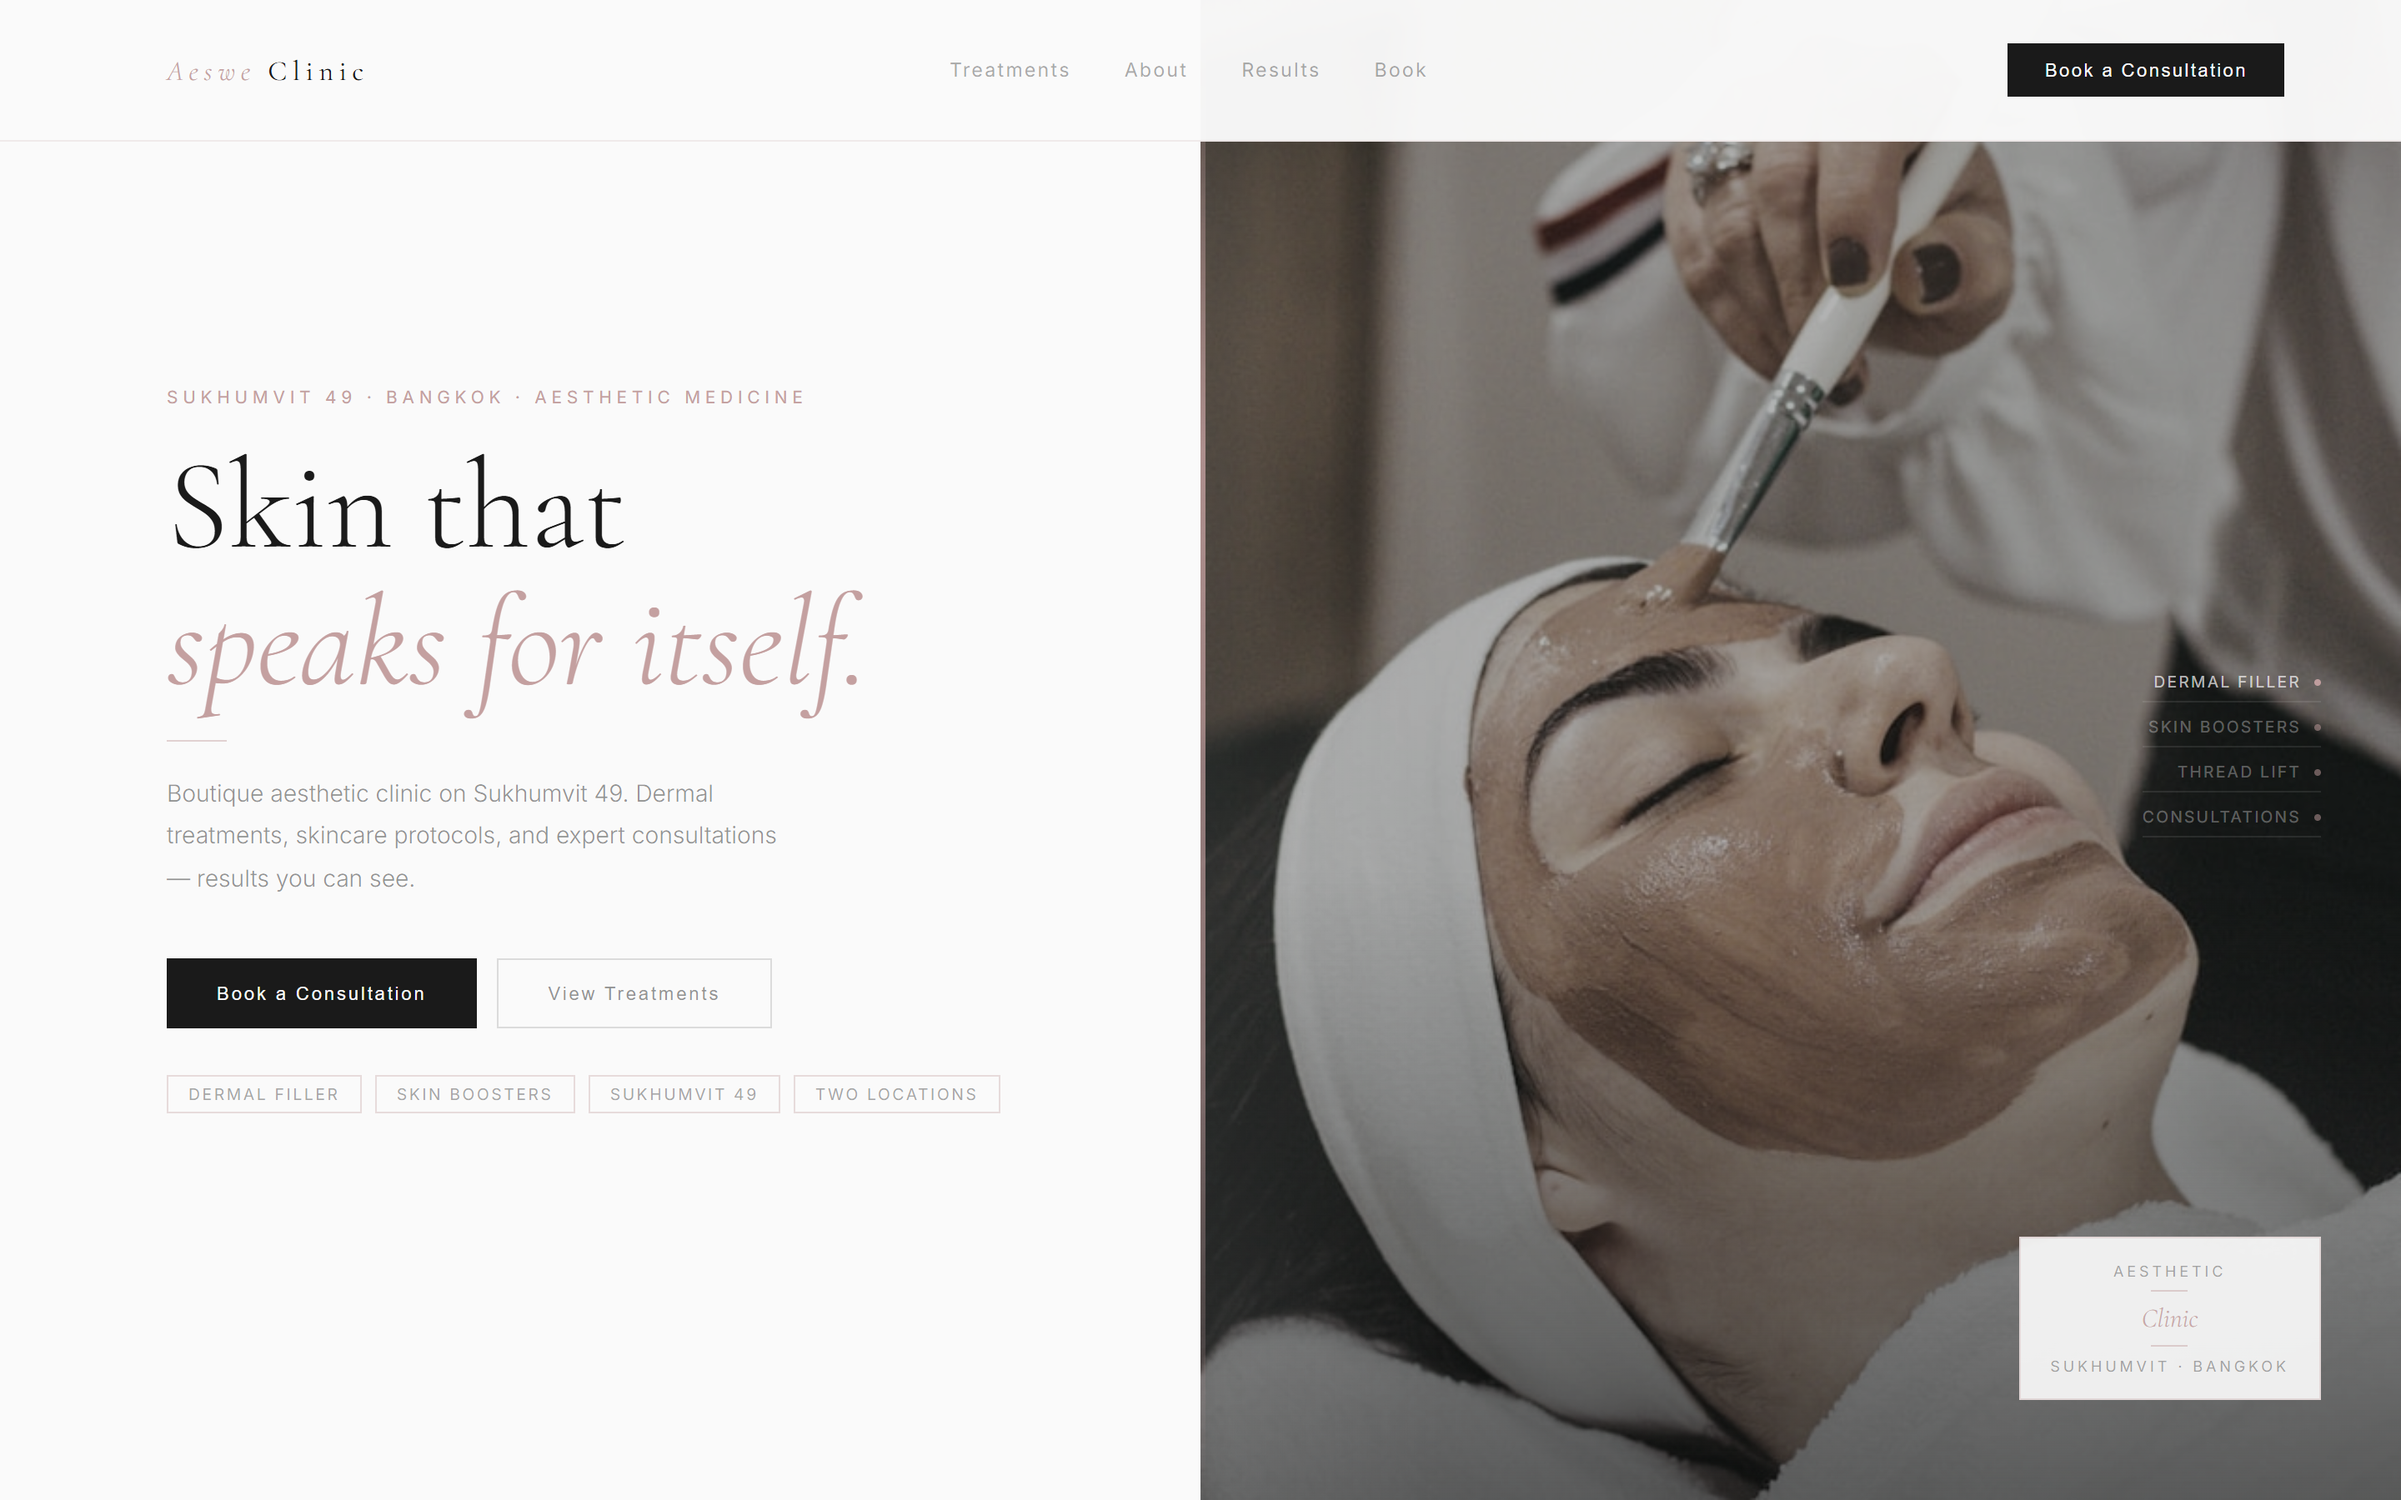
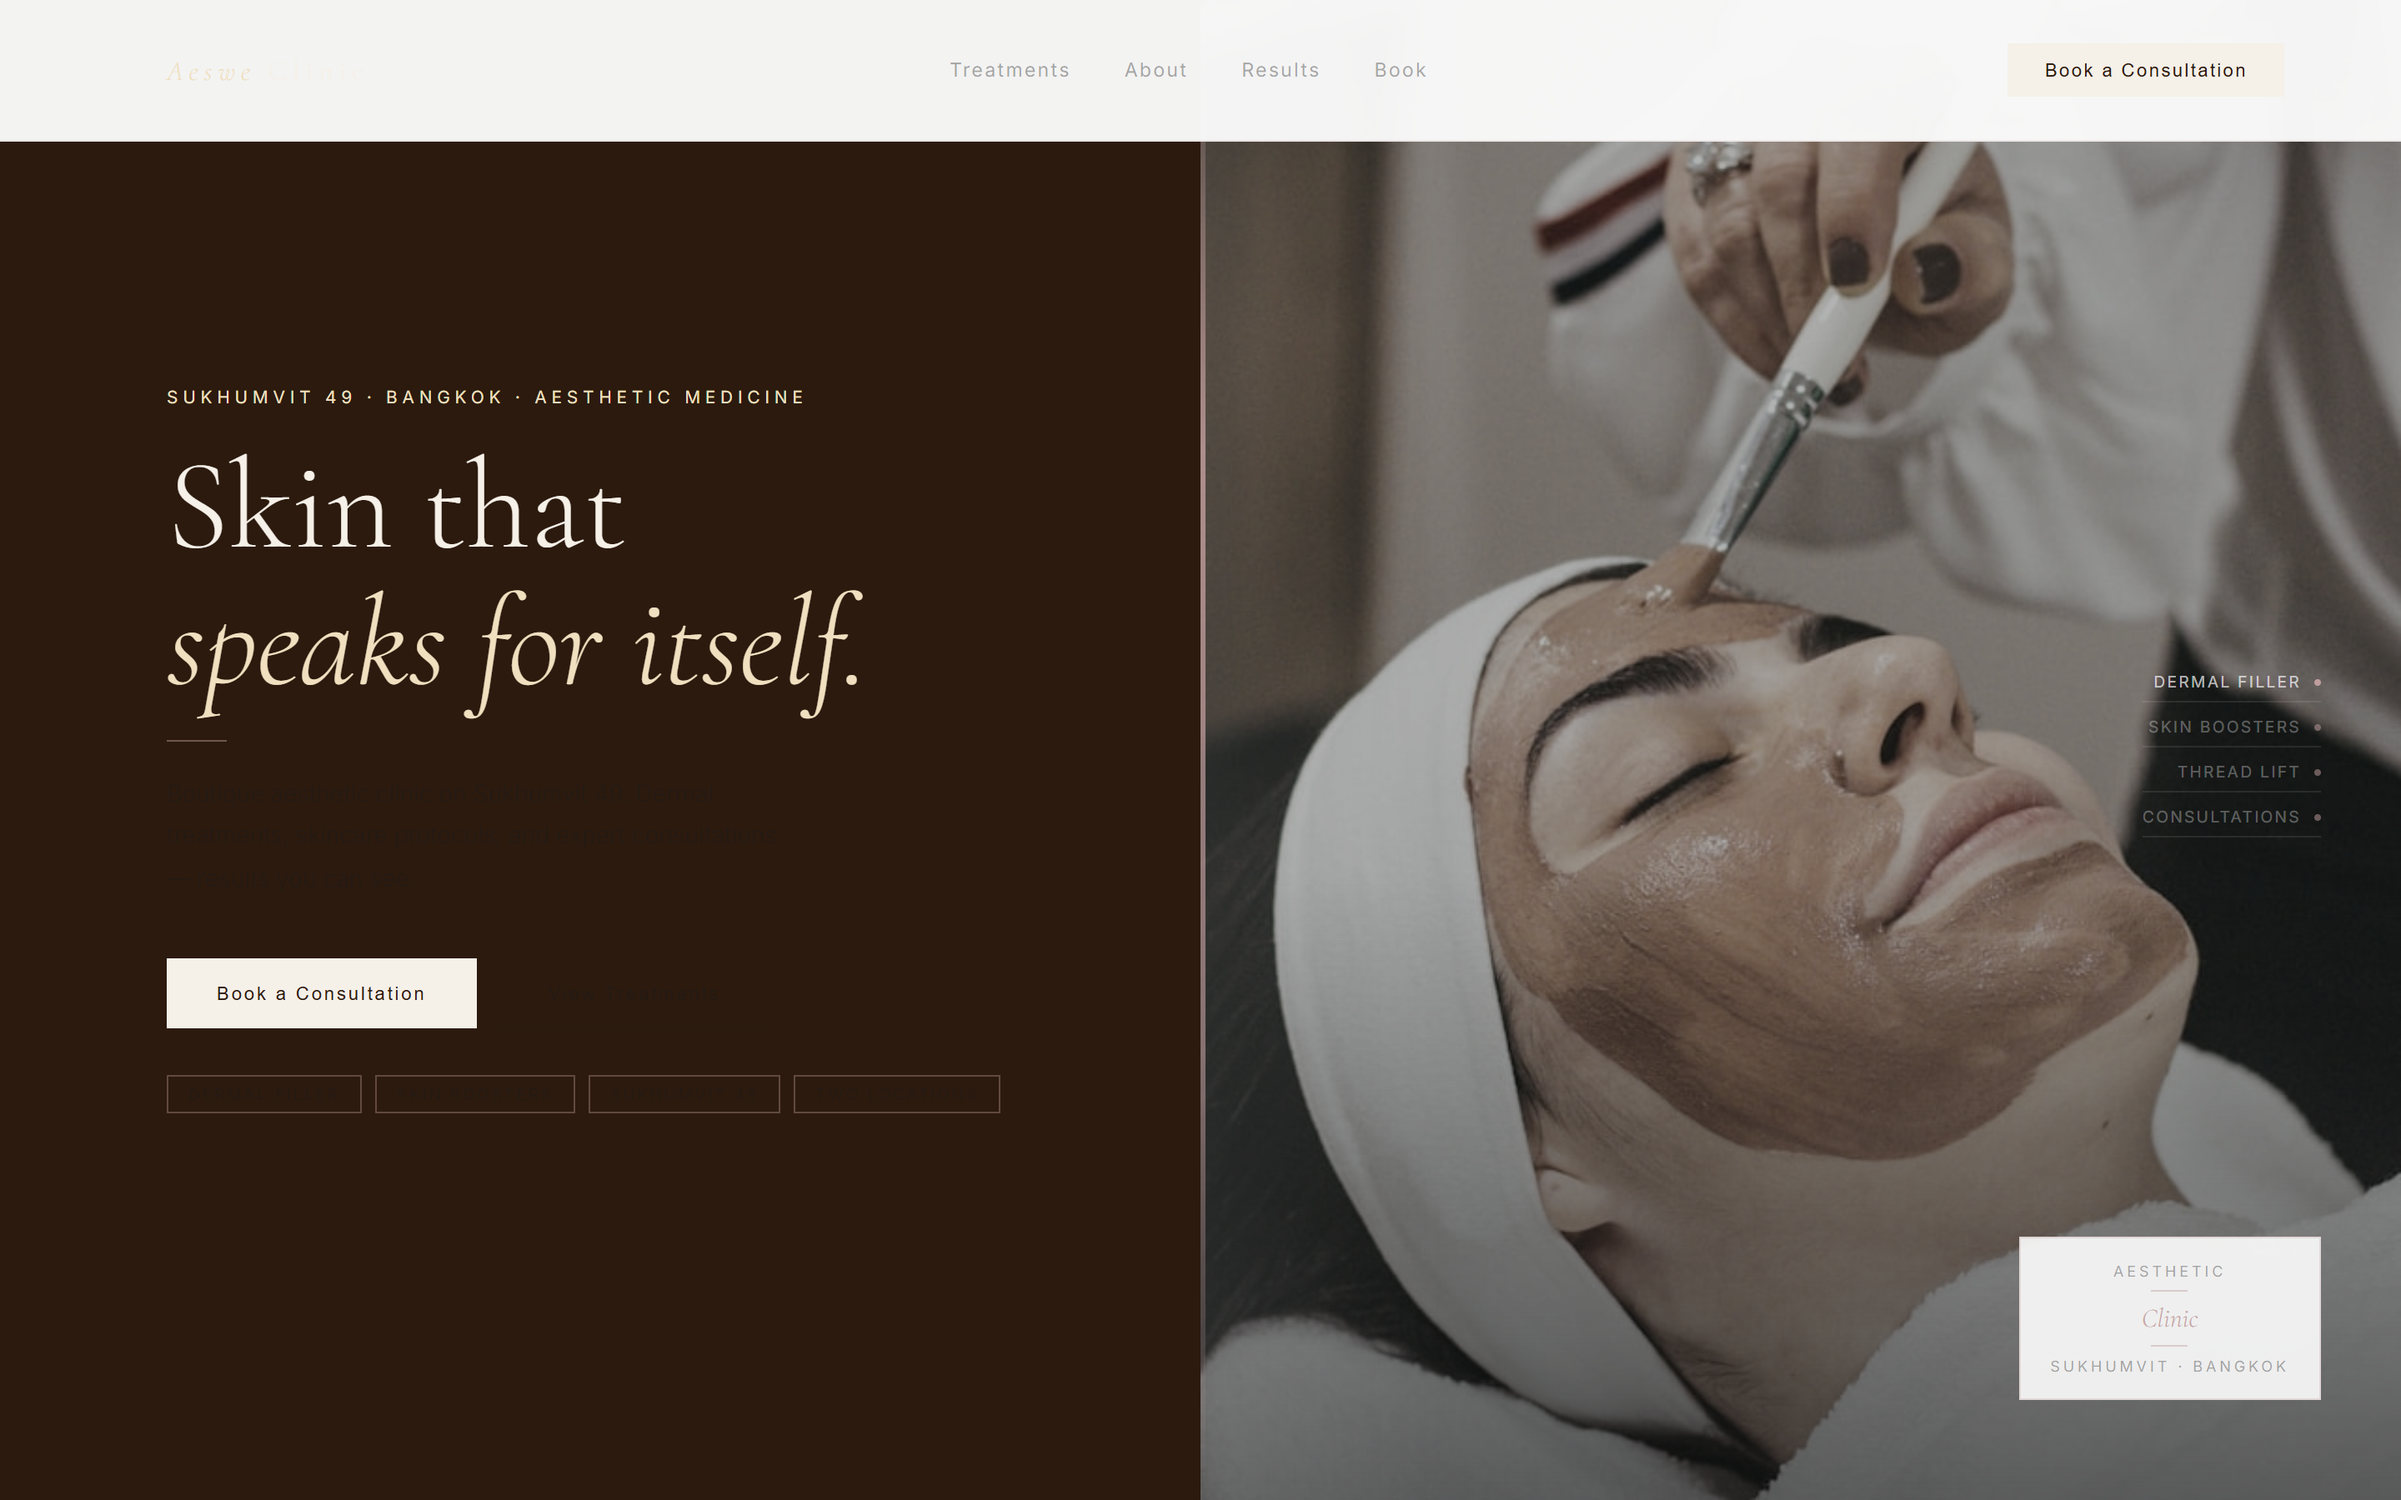
Auto-start color server on VSCode folder open
- .vscode/tasks.json: folderOpen task runs node color-server.cjs silently in background
- color-server.cjs: EADDRINUSE handler exits cleanly if server already running
- package.json: added npm start script

diff --git a/outreach-v2/mockups/round-4/aesweclinic.html b/outreach-v2/mockups/round-4/aesweclinic.html
@@ -8,11 +8,11 @@
 <style>
   /* Brand colors — auto-patched by apply-colors.cjs */
   :root {
-    --brand-primary: #2A2A2A;
-    --brand-secondary: #E8D5D5;
-    --brand-accent: #C4A0A0;
-    --brand-bg: #FAFAFA;
-    --brand-text: #1A1A1A;
+    --brand-primary: #C9A96E;
+    --brand-secondary: #3D2010;
+    --brand-accent: #F0E0C0;
+    --brand-bg: #2C1A0E;
+    --brand-text: #F5F0E8;
   }
 
   *, *::before, *::after { margin: 0; padding: 0; box-sizing: border-box; }
